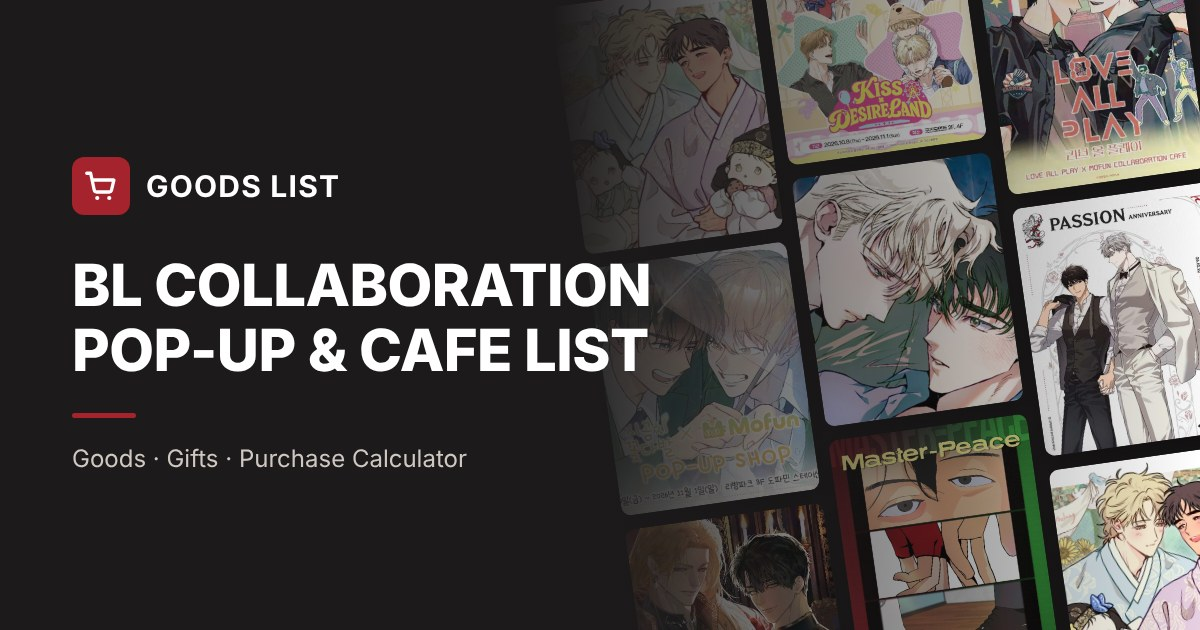
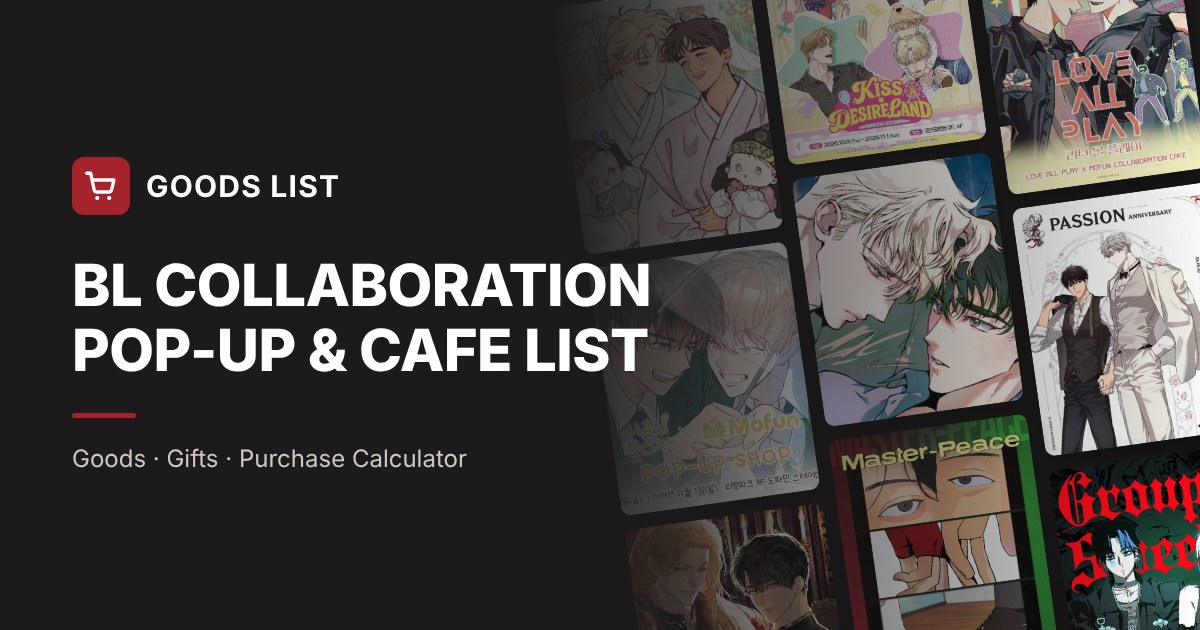
그루피 스위티 × 비온 아넥스 추가, 운영 중 행사도 오픈일 순으로 정렬, 링크 미리보기 갱신
Claude-Session: https://claude.ai/code/session_016s7oh25f265a5L8SgmxWsx

Changed region(s): [[0.8633, 0.6937, 1.0, 1.0]]

diff --git a/index.html b/index.html
@@ -11,14 +11,14 @@
 <meta property="og:title" content="GOODS LIST · BL 콜라보 팝업 & 카페 리스트">
 <meta property="og:description" content="BL 콜라보 팝업스토어·카페 굿즈 리스트와 구매 특전 계산기. 굿즈를 담으면 특전 개수와 합계를 바로 계산해요.">
 <meta property="og:url" content="https://rinixxxrini.github.io/">
-<meta property="og:image" content="https://rinixxxrini.github.io/img/og.jpg?v=20261019">
+<meta property="og:image" content="https://rinixxxrini.github.io/img/og.jpg?v=20261025">
 <meta property="og:image:width" content="1200">
 <meta property="og:image:height" content="630">
 <meta property="og:locale" content="ko_KR">
 <meta name="twitter:card" content="summary_large_image">
 <meta name="twitter:title" content="GOODS LIST · BL 콜라보 팝업 & 카페 리스트">
 <meta name="twitter:description" content="BL 콜라보 팝업스토어·카페 굿즈 리스트와 구매 특전 계산기.">
-<meta name="twitter:image" content="https://rinixxxrini.github.io/img/og.jpg?v=20261019">
+<meta name="twitter:image" content="https://rinixxxrini.github.io/img/og.jpg?v=20261025">
 <link rel="preconnect" href="https://fonts.googleapis.com">
 <link rel="preconnect" href="https://fonts.gstatic.com" crossorigin>
 <link href="https://fonts.googleapis.com/css2?family=Nanum+Myeongjo:wght@700;800&family=IBM+Plex+Sans+KR:wght@400;500;600&display=swap" rel="stylesheet">
@@ -510,6 +510,11 @@ const SP_NIGHT = ["img/sp_guides/night1-386ec85f.jpg", "img/sp_guides/night2-666
 const SP_GUIDES = [{"title": "행사 포스터", "img": "img/sp_guides/poster-1d4e72ef.jpg"}, {"title": "MD LIST 1", "img": "img/sp_guides/md1-47bc2a14.jpg"}, {"title": "MD LIST 2", "img": "img/sp_guides/md2-556a9eba.jpg"}, {"title": "MD LIST 3", "img": "img/sp_guides/md3-e0e063b6.jpg"}, {"title": "MD LIST 4", "img": "img/sp_guides/md4-7a13ec54.jpg"}, {"title": "MD 특전", "img": "img/sp_guides/gift-50a7914e.jpg"}, {"title": "주간 메뉴 1", "img": "img/sp_guides/day1-bb3882e9.jpg"}, {"title": "주간 메뉴 2 · 코스터", "img": "img/sp_guides/day2-fdd31fab.jpg"}, {"title": "야간 메뉴 1 (애들은 재우고)", "img": "img/sp_guides/night1-386ec85f.jpg"}, {"title": "야간 메뉴 2 · 코스터", "img": "img/sp_guides/night2-6666996c.jpg"}, {"title": "스탬프 미션", "img": "img/sp_guides/stamp-86fe5d4a.jpg"}, {"title": "예약자 포토카드", "img": "img/sp_guides/rsv-07f70e1e.jpg"}, {"title": "콜라보카페 예약 안내", "img": "img/sp_guides/time-cbd2aead.jpg"}, {"title": "재입고 안내 (9/29)", "img": "img/sp_guides/restock-8083be38.jpg"}];
 const SH_BOARD = "img/sh_guides/menu-3b124259.jpg";
 const SH_GUIDES = [{"title": "메뉴", "img": "img/sh_guides/menu-3b124259.jpg"}, {"title": "상품 안내", "img": "img/sh_guides/md-3732ca63.jpg"}, {"title": "증정품 안내", "img": "img/sh_guides/gift-0aaa910a.jpg"}, {"title": "포토카드 증정 이벤트", "img": "img/sh_guides/event-f15164d5.jpg"}, {"title": "이벤트 정보 · 예약 안내", "img": "img/sh_guides/info-d98f712f.jpg"}, {"title": "포스터", "img": "img/sh_guides/poster-ebf1b424.jpg"}];
+const GS_IMGS = {"1": "img/gs_imgs/1-ca8ce377.jpg", "2": "img/gs_imgs/2-7cf1f05d.jpg", "3": "img/gs_imgs/3-4193b8e1.jpg", "4": "img/gs_imgs/4-a90c3416.jpg", "5": "img/gs_imgs/5-d279f398.jpg", "6": "img/gs_imgs/6-271385a7.jpg", "7": "img/gs_imgs/7-e7d6ea8e.jpg", "8": "img/gs_imgs/8-8aa60f2b.jpg", "9": "img/gs_imgs/9-58a29f79.jpg", "10": "img/gs_imgs/10-3b9bc6cf.jpg", "11": "img/gs_imgs/11-280f8db7.jpg", "12": "img/gs_imgs/12-bfb79058.jpg", "21": "img/gs_imgs/21-c886332e.jpg", "22": "img/gs_imgs/22-27377481.jpg", "23": "img/gs_imgs/23-2eedf9d4.jpg", "24": "img/gs_imgs/24-3c7c0613.jpg", "25": "img/gs_imgs/25-8671ca31.jpg", "26": "img/gs_imgs/26-e889f7cb.jpg", "27": "img/gs_imgs/27-65e023b3.jpg", "28": "img/gs_imgs/28-b0174f2d.jpg", "29": "img/gs_imgs/29-46b234b9.jpg", "30": "img/gs_imgs/30-3b1843a3.jpg", "31": "img/gs_imgs/31-a3a0d323.jpg", "32": "img/gs_imgs/32-ba00c18f.jpg", "33": "img/gs_imgs/33-310e73b3.jpg", "34": "img/gs_imgs/34-bb17a9a8.jpg", "35": "img/gs_imgs/35-af670b80.jpg", "36": "img/gs_imgs/36-6ce241d3.jpg"};
+const GS_GIMG = {"set1": "img/gs_gimg/set1-9b4074e0.jpg", "set2": "img/gs_gimg/set2-668df61a.jpg", "coaster": "img/gs_gimg/coaster-c574d7ac.jpg", "set3": "img/gs_gimg/set3-148f6aae.jpg", "pc": "img/gs_gimg/pc-84044ad5.jpg"};
+const GS_COVER = "img/gs_cover/cover-dd285df2.jpg";
+const GS_BOARD = "img/gs_guides/menu-d8d5b449.jpg";
+const GS_GUIDES = [{"title": "메뉴", "img": "img/gs_guides/menu-d8d5b449.jpg"}, {"title": "굿즈 1", "img": "img/gs_guides/md1-2fc045d3.jpg"}, {"title": "굿즈 2", "img": "img/gs_guides/md2-1bca5882.jpg"}, {"title": "특전", "img": "img/gs_guides/gift-2273806c.jpg"}, {"title": "SNS 이벤트", "img": "img/gs_guides/sns-721257ff.jpg"}, {"title": "메인 이미지", "img": "img/gs_guides/kv-d8dbf802.jpg"}];
 const AF_IMGS = {"1": "img/af_imgs/1-0dc99863.jpg", "2": "img/af_imgs/2-ac82d81b.jpg", "3": "img/af_imgs/3-60dbe280.jpg", "4": "img/af_imgs/4-53efc25b.jpg", "5": "img/af_imgs/5-baaec011.jpg", "6": "img/af_imgs/6-15875eec.jpg", "7": "img/af_imgs/7-71947cc3.jpg", "11": "img/af_imgs/11-db0d788a.jpg", "12": "img/af_imgs/12-154393e6.jpg", "13": "img/af_imgs/13-154393e6.jpg", "14": "img/af_imgs/14-82bbfd83.jpg", "15": "img/af_imgs/15-50b5cd99.jpg", "16": "img/af_imgs/16-4e2317c7.jpg", "17": "img/af_imgs/17-3fbd7175.jpg", "18": "img/af_imgs/18-cc19f1db.jpg", "19": "img/af_imgs/19-691f5c98.jpg", "20": "img/af_imgs/20-5752227f.jpg"};
 const AF_GIMG = {"coaster": "img/af_gimg/coaster-25b875c6.jpg", "postcard": "img/af_gimg/postcard-53a23d26.jpg", "poster": "img/af_gimg/poster-dd43fb51.jpg", "mini": "img/af_gimg/mini-6dbfbc4e.jpg"};
 const AF_COVER = "img/af_cover/cover-3d9eae89.jpg";
@@ -802,6 +807,37 @@ const AF_ITEMS = [
   {no:19,tag:"08",cat:"상품",name:"콜렉트 바인더 1종 + 일러스트 엽서 2종",sub:"표지 265×315mm, 속지 A4 · 속지: 색지용/엽서용/포스터용/코스터용/미니 포토카드용 각 3매씩 15매",price:25000,limit:5},
   {no:20,tag:"09",cat:"상품",name:"The S세트 (리뉴얼)",sub:"엽서 10종 + 렌티큘러 엽서 2종 + 3D 렌티큘러 엽서 2종",price:26000,limit:5,note:"19세 미만 구매 불가 · 결제 시 신분증 확인"},
 ];
+const GS_CATS = ["카페 메뉴","아크릴","지류·스티커","잡화"];
+const GS_ITEMS = [
+  {no:1,tag:"D1",cat:"카페 메뉴",name:"비온 스페셜티",sub:"티 6종 중 선택",price:6000,vars:["수국유자차","스위트 라벤더","캐모마일","히비스커스 블라썸","페퍼민트","마리골드 블라썸"],noElig:true},
+  {no:2,tag:"D2",cat:"카페 메뉴",name:"아메리카노",price:6000,noElig:true},
+  {no:3,tag:"D3",cat:"카페 메뉴",name:"다크초코프라페",price:7000,noElig:true},
+  {no:4,tag:"D4",cat:"카페 메뉴",name:"딸기라떼",price:7000,noElig:true},
+  {no:5,tag:"D5",cat:"카페 메뉴",name:"망고주스",price:7000,noElig:true},
+  {no:6,tag:"D6",cat:"카페 메뉴",name:"카페라떼",price:7000,noElig:true},
+  {no:7,tag:"D7",cat:"카페 메뉴",name:"초코라떼",price:7000,noElig:true},
+  {no:8,tag:"D8",cat:"카페 메뉴",name:"오렌지소다",price:7000,noElig:true},
+  {no:9,tag:"S1",cat:"카페 메뉴",name:"상견례 도넛",sub:"디저트",price:8000,noElig:true},
+  {no:10,tag:"S2",cat:"카페 메뉴",name:"갸토쇼콜라 케이크",sub:"디저트",price:8000,noElig:true},
+  {no:11,tag:"S3",cat:"카페 메뉴",name:"딸기+쿠키앤크림 쫀득쿠키",sub:"디저트",price:8000,noElig:true},
+  {no:12,tag:"S4",cat:"카페 메뉴",name:"칠리 핫도그",sub:"디저트",price:9000,noElig:true},
+  {no:21,cat:"아크릴",name:"아크릴 스탠드",price:29000},
+  {no:22,cat:"아크릴",name:"아크릴 포토카드 홀더",price:17000},
+  {no:23,cat:"아크릴",name:"아크릴 카라비너",price:13000},
+  {no:24,cat:"잡화",name:"슬로건타올",price:15000},
+  {no:25,cat:"아크릴",name:"아크릴 키링",price:9000,vars:["천문학","이재희"]},
+  {no:26,cat:"잡화",name:"마스킹테이프 세트",sub:"디스펜서 + 마스킹테이프 2입",price:38000},
+  {no:27,cat:"잡화",name:"하이볼잔",price:17000},
+  {no:28,cat:"잡화",name:"피어싱",price:13000},
+  {no:29,cat:"아크릴",name:"아크릴 코롯토",price:12000},
+  {no:30,cat:"잡화",name:"캔뱃지 세트",price:9000},
+  {no:31,cat:"잡화",name:"사인 기타 피크",sub:"랜덤",price:3000},
+  {no:32,cat:"지류·스티커",name:"로고 스티커팩",price:15000},
+  {no:33,cat:"지류·스티커",name:"판스티커 세트",price:15000},
+  {no:34,cat:"지류·스티커",name:"포토카드",sub:"랜덤",price:4500},
+  {no:35,cat:"지류·스티커",name:"바인더북",price:24000},
+  {no:36,cat:"지류·스티커",name:"필름 세트",price:6000},
+];
 const SH_CATS = ["카페 메뉴","상품"];
 const SH_ITEMS = [
   {no:1,tag:"M1",cat:"카페 메뉴",name:"<천희건> 바닐라크림 콜드브루",sub:"네가 싫다는 건 아무 것도 안 해.",price:7000,noElig:true},
@@ -885,6 +921,50 @@ const SG_ITEMS = [
   {no:16,cat:"키링·인형",name:"꼬치 인형 키링 (2종)",sub:"꼬치 인형 + 포토카드",price:27000,vars:["지우&동찬","선의&철호"],note:"팝업샵 2주차 입고 예정 · 정확한 입고 일정은 추후 모펀 스토어 아이파크몰 용산점 X 계정으로 안내"},
 ];
 const EVENTS = [{
+  id:"gs",
+  work:"그루피 스위티",
+  kw:"그루피 스위티 그루피스위티 그스 groupie sweetie 비온 아넥스 비온아넥스 비온카페 be on annex beon 천문학 이재희 써머",
+  title:"GROUPIE SWEETIE × Be On ANNEX",
+  cardSub:"비온 아넥스 (마포구 동교로25길)",
+  sub:"비온 아넥스",
+  subFull:"그루피 스위티 × 비온 아넥스 콜라보 카페 계산기",
+  dates:"2026.10.31(토) - 2026.11.15(일)",
+  imgs:GS_IMGS, gimg:GS_GIMG,
+  menuBoard:GS_BOARD, menuCat:"카페 메뉴",
+  cover:GS_COVER,
+  hasLd:false,
+  catLabel:"구분",
+  cats:GS_CATS,
+  items:GS_ITEMS,
+  giftTitle:"굿즈 특전",
+  cafeGiftTitle:"메뉴 특전",
+  cartHint:"장바구니 1개 = 결제(영수증) 1건으로 계산했어요. 굿즈 특전은 굿즈 금액 기준이에요. 구매 제한은 현장 상황에 따라 생길 수 있어요.",
+  gifts:[
+    {id:"set1",short:"엽서+스티커",name:"일러스트 엽서 5종 / 도무송 스티커 10종",cond:"굿즈 1만원 이상 구매 시 랜덤 1세트",img:"set1",rule:{type:"min",amount:10000},unit:"세트"},
+    {id:"set2",short:"포스터+팔찌",name:"포스터 3종 / 공연 팔찌 3종",cond:"굿즈 5만원 이상 구매 시 랜덤 1세트",img:"set2",rule:{type:"min",amount:50000},unit:"세트"},
+    {id:"coaster",cafe:true,short:"사각 코스터",name:"사각 코스터 (7종)",cond:"음료 혹은 디저트 구매 시 랜덤 1종 (메뉴 1개당 1장으로 계산)",img:"coaster",rule:{type:"items",nos:[1,2,3,4,5,6,7,8,9,10,11,12]},unit:"장"},
+    {id:"set3",cafe:true,short:"포스터+캔뱃지",name:"일러스트 포스터 4종 / 캔뱃지 4종",cond:"음료+디저트 세트 구매 시 랜덤 1세트 (음료 1개 + 디저트 1개마다 1세트로 계산)",img:"set3",rule:{type:"pairs",a:[1,2,3,4,5,6,7,8],b:[9,10,11,12]},unit:"세트"},
+  ],
+  notes:[
+    "장소는 비온 아넥스(Be On ANNEX)예요. 포스터에 적힌 주소는 서울 마포구 동교로25길 34예요. 운영 소식은 트위터 @cafebeon, 인스타그램 @beoncafe.official에서 확인할 수 있어요.",
+    "굿즈 특전: 1만원 이상이면 일러스트 엽서/도무송 스티커 랜덤 1세트, 5만원 이상이면 포스터/공연 팔찌 랜덤 1세트예요. 결제 1건 기준으로 계산했어요.",
+    "메뉴 특전: 음료나 디저트를 사면 사각 코스터 랜덤 1종, 음료+디저트 세트로 사면 일러스트 포스터/캔뱃지 랜덤 1세트예요. 메뉴 1개당 코스터 1장, 음료 1개+디저트 1개마다 세트 1개로 계산했어요. 현장 기준과 다르면 알려 주세요.",
+    "모든 제품은 재고가 소진되면 판매가 끝나요. 현장 상황에 따라 구매 제한이 생길 수 있어요.",
+    "제품 이미지는 실물과 다를 수 있어요. 인쇄 과정에서 생긴 미세한 흠집이나 점은 교환·환불 대상이 아니에요."
+  ],
+  complete:{
+    title:"SNS 이벤트 · 포토카드 10종",
+    sub:"받았으면 체크",
+    items:[
+      {k:"e1",img:"pc",name:"굿즈 구매 인증 게시글 업로드 · 포토카드 +1종",cond:"필수 해시태그와 함께 굿즈 구매 인증 게시글 업로드"},
+      {k:"e2",img:"pc",name:"이벤트 메뉴 구매 인증 게시글 업로드 · 포토카드 +1종",cond:"필수 해시태그와 함께 이벤트 메뉴 구매 인증 게시글 업로드"},
+      {k:"e3",img:"pc",name:"작품 소장 인증 · 포토카드 +1종",cond:"작품 소장 인증"}
+    ],
+    collect:{n:10,title:"포토카드 도감"},
+    note:"필수 해시태그: #써머 #beyond #해담이엔티 #비온아넥스 #비온카페 #인증이벤트 · 비온아넥스 계정 팔로우 확인 후 증정 (트위터 @cafebeon · 인스타그램 @beoncafe.official)"
+  },
+  guides:GS_GUIDES
+},{
   id:"af",
   work:"알로샤의 꽃",
   kw:"알로샤의 꽃 알로샤의꽃 알꽃 The Search For Alosha 지그릴 케이 모펀 mofun 홍대 AK",
@@ -1564,7 +1644,7 @@ const EVENTS = [{
 const GROUPS = {
   kdl:{work:"키스 미 이프 유 캔\n디자이어 미 이프 유 캔",kw:"키스 미 이프 유 캔 디자이어 미 이프 유 캔 키이프 디이프 kiss me if you can desire me if you can 키스 디자이어 랜드 굿즈모먼트 goodsmoment",title:"Kiss × Desire Land",sub:"굿즈모먼트 2F · 4F",dates:"2026.10.8(목) - 2026.11.1(일)",cover:KD_COVER,parts:["kdl-pop","kdl-cafe"],entry:"kdl-pop"}
 };
-const HOME = [{ev:"af"},{ev:"jp"},{ev:"sp"},{ev:"usl"},{ev:"ws"},{ev:"jinx"},{group:"kdl"},{ev:"lap"},{ev:"sg"},{ev:"mtg"},{ev:"bv"},{ev:"sh"}];
+const HOME = [{ev:"gs"},{ev:"af"},{ev:"jp"},{ev:"sp"},{ev:"usl"},{ev:"ws"},{ev:"jinx"},{group:"kdl"},{ev:"lap"},{ev:"sg"},{ev:"mtg"},{ev:"bv"},{ev:"sh"}];
 
 /* 날짜는 KST(한국 시간) 기준으로 판단해요 */
 const kstToday = () => { const d = new Date(Date.now() + 9*3600e3); return Date.UTC(d.getUTCFullYear(), d.getUTCMonth(), d.getUTCDate()); };
@@ -1660,6 +1740,7 @@ function giftCount(r, elig, byNo){
   if(t.type==="per") return Math.min(t.cap||Infinity, Math.floor(elig/t.amount));
   if(t.type==="item") return byNo[t.no]||0;
   if(t.type==="items") return Math.floor(t.nos.reduce((a,n)=>a+(byNo[n]||0),0)/(t.div||1)) * (t.mult||1);
+  if(t.type==="pairs") return Math.min(t.a.reduce((x,n)=>x+(byNo[n]||0),0), t.b.reduce((x,n)=>x+(byNo[n]||0),0));
   if(t.type==="parts") return t.parts.reduce((a,pt)=>a+Math.floor(pt.nos.reduce((x,n)=>x+(byNo[n]||0),0)/(pt.div||1))*(pt.mult||1),0);
   return 0;
 }
@@ -2510,10 +2591,10 @@ function renderHome(){
     const st = evStatus(dates), r = dateRange(dates) || {start:0,end:0};
     return {title,work,sub,dates,cover,count,n,sum,ld,pend,target,kw:normQ([work,title,sub,dates,kw].join(" ")),status:st,start:r.start,end:r.end,ended:st==="ended"};
   });
-  // 운영 중 → 운영 예정(시작 빠른 순) → 운영 종료(최근에 끝난 순, 먼저 끝난 행사가 맨 뒤)
+  // 운영 중(오픈일 빠른 순) → 운영 예정(오픈일 빠른 순) → 운영 종료(최근에 끝난 순, 먼저 끝난 행사가 맨 뒤)
   const rank = {live:0, soon:1, ended:2};
   cards.forEach((c,i)=>c.i=i);
-  cards.sort((x,y)=> rank[x.status]-rank[y.status] || (x.status==="soon" ? x.start-y.start : x.status==="ended" ? y.end-x.end : x.i-y.i));
+  cards.sort((x,y)=> rank[x.status]-rank[y.status] || (x.status==="ended" ? y.end-x.end : x.start-y.start) || x.i-y.i);
   const q = normQ(homeQ), qc = q.replace(/ /g,"");
   const hit = c => !q || q.split(" ").every(w=>c.kw.includes(w)) || c.kw.replace(/ /g,"").includes(qc);
   const found = cards.filter(hit);
